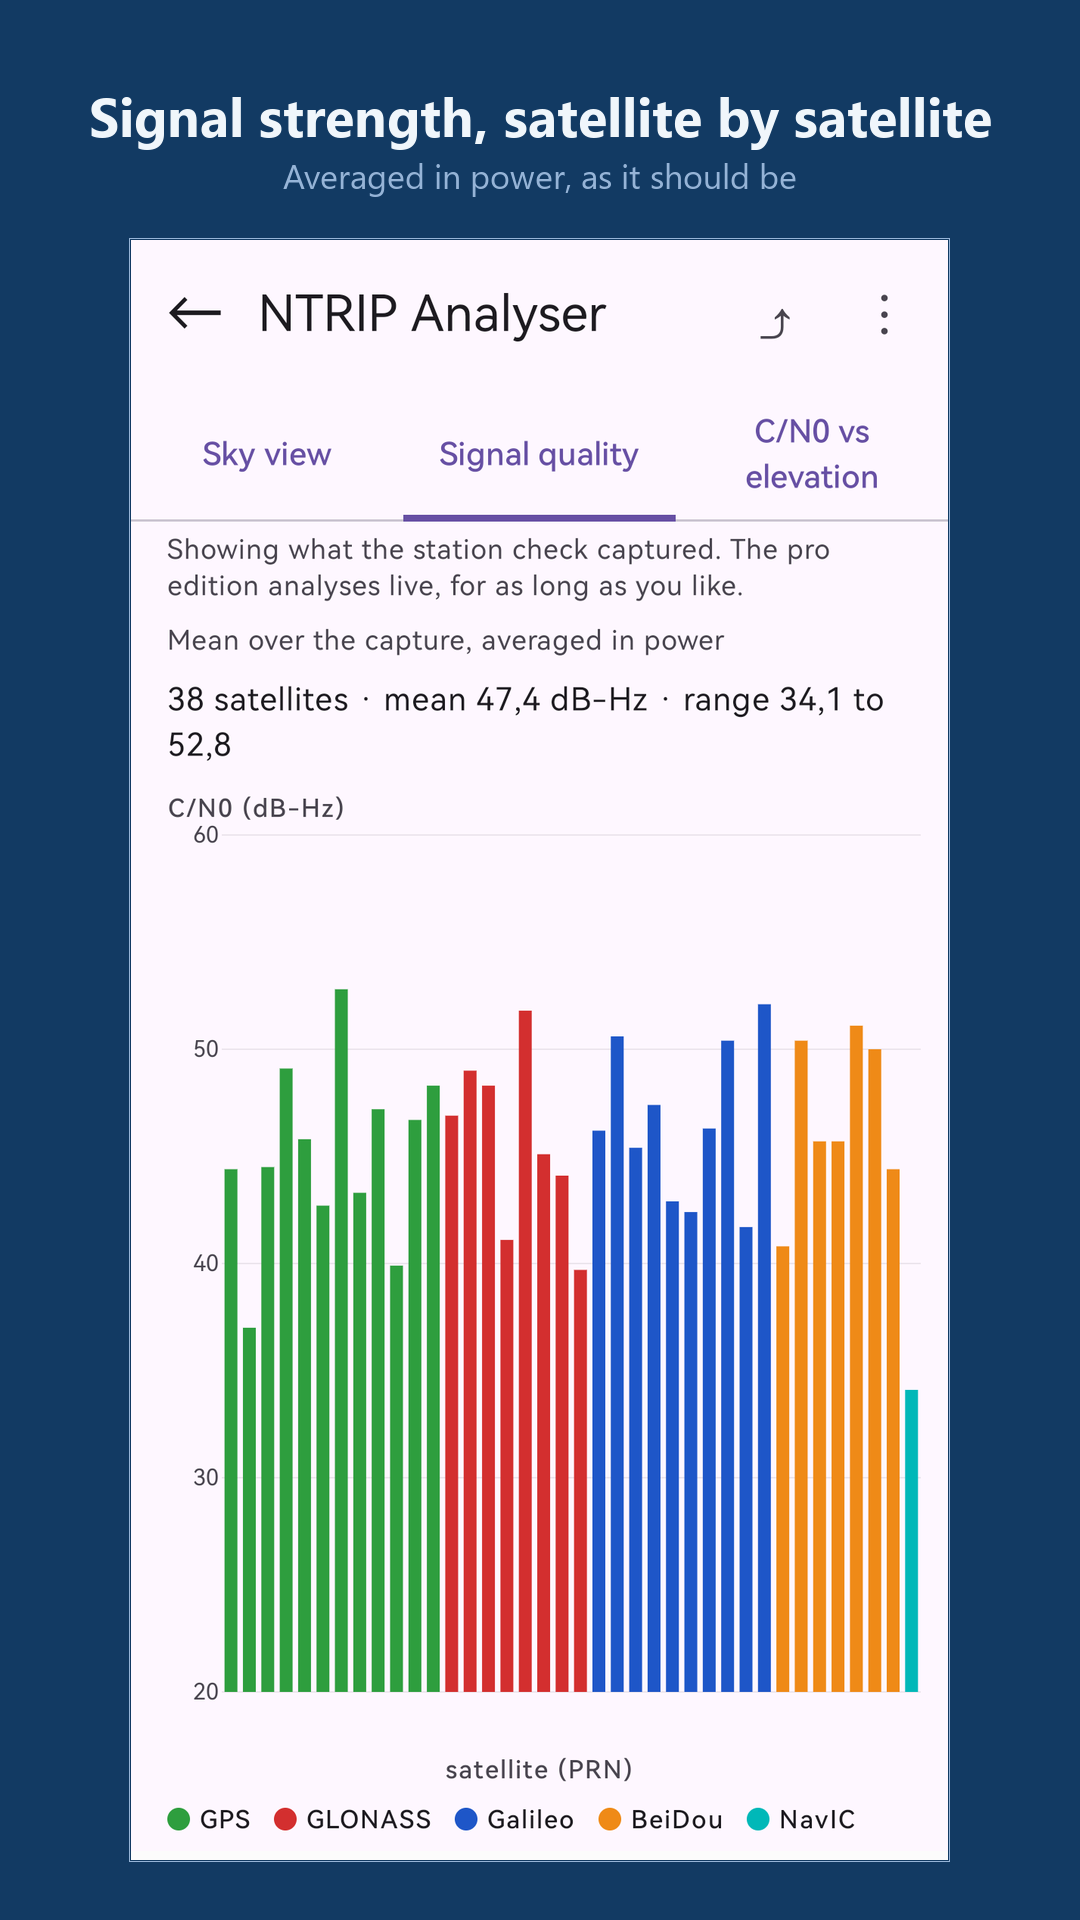
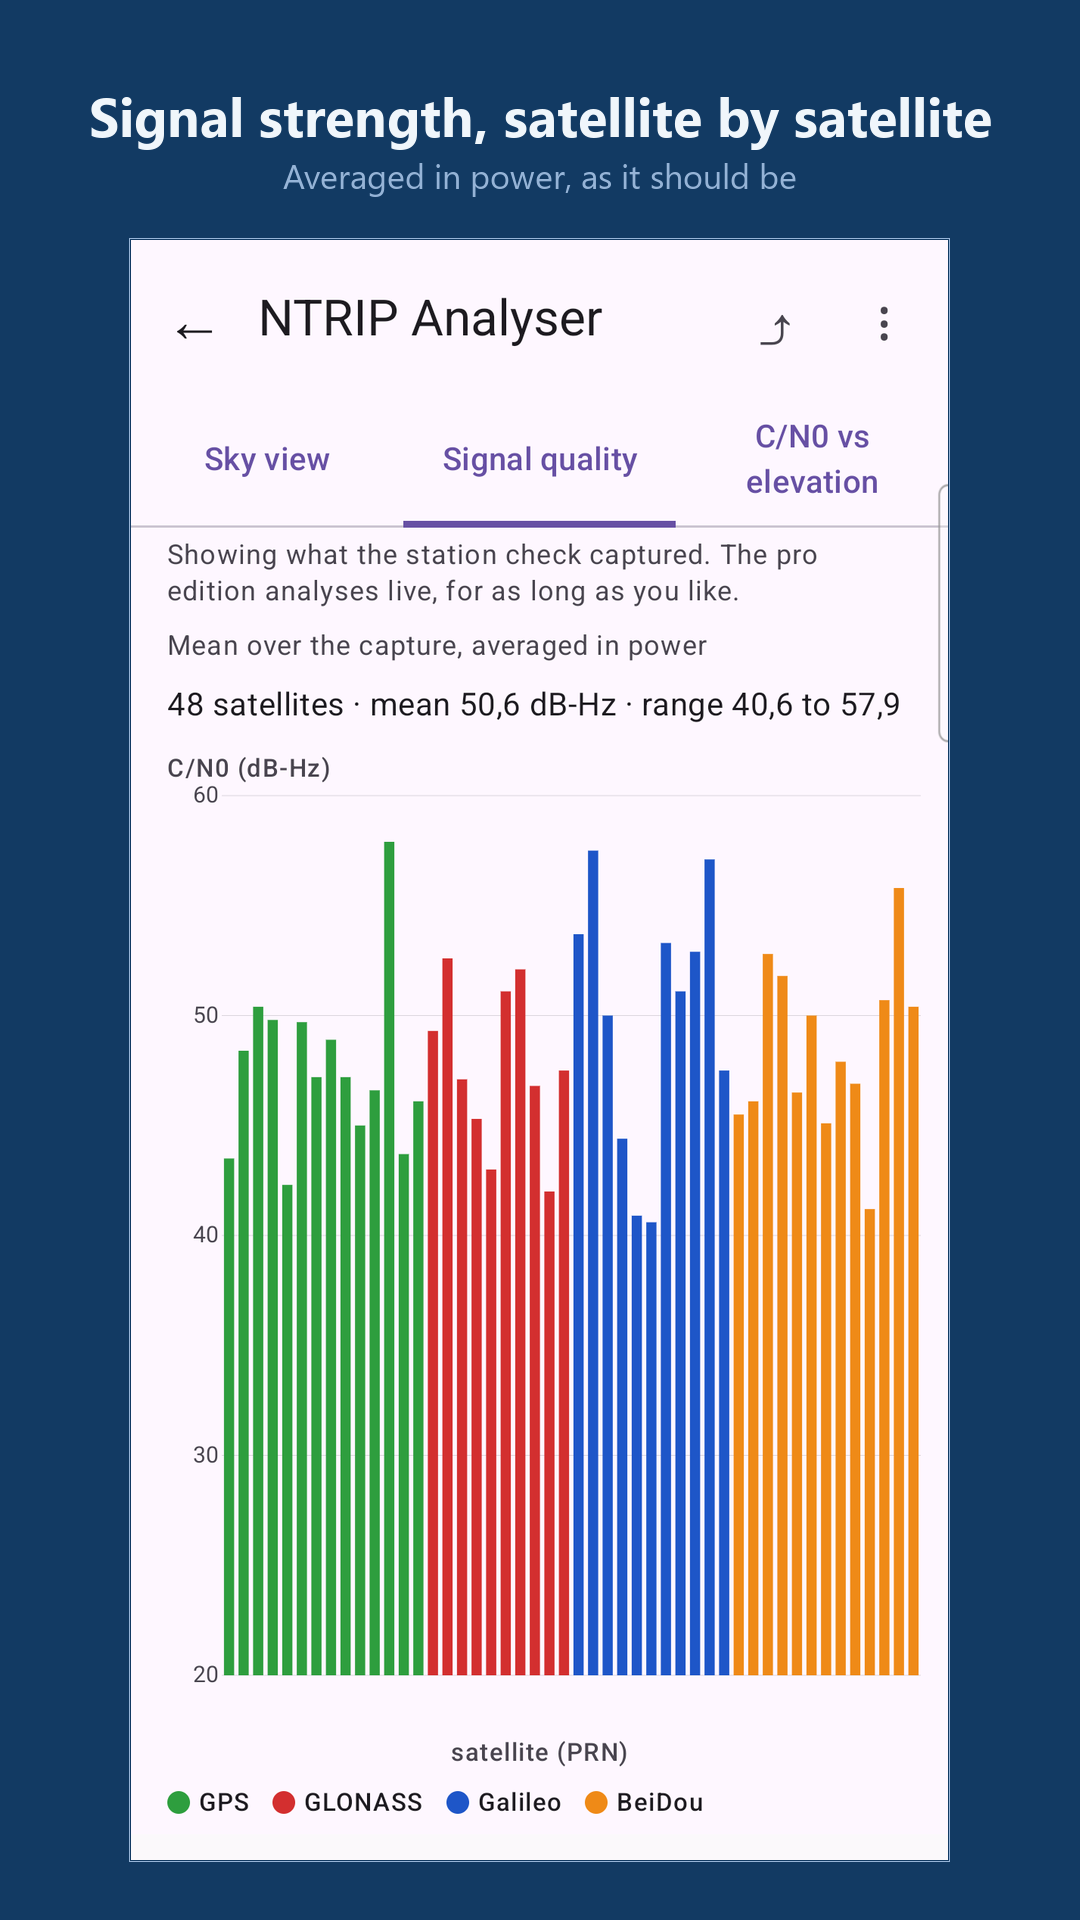
Pro-to-play S2: the store assets, shot on a real run
Pro's captures come from the author's own 50-minute watch on
APEL00NLD0 over TLS -- the run-aware banner, the stability card at
STABLE over 0.7 h with six evidenced verdicts, the hand-over detail,
a 102k-sample elevation heatmap, 37 minutes of satellite tracks, and
live signal bars. Two captions joined the framing tool for the
tier-2 screens. The redaction gate refused a drifted box twice (a
running watch's banner sits taller than a finished check's), and the
author caught the redaction the tool never had: the GGA uplink line
carries the phone's own position, hidden now with the same
shape-preserving treatment as the ARP. Free's four frames are from
an APEL TLS check; its CAUTION main is the author's call at upload.
The stale renumbered pro images are removed -- a directory of mixed
vintages is the state most likely to be uploaded unnoticed.

diff --git a/tools/make_store_shots.py b/tools/make_store_shots.py
@@ -47,9 +47,18 @@ CAPTIONS = {
                "Averaged in power, as it should be"),
     'sourcetable': ("The caster's own sourcetable",
                     "Every mountpoint, its format and its constellations"),
+    # Pro only -- free has no stability card and simply never supplies
+    # the capture.  The card judges on its own evidence and says so;
+    # the caption repeats nothing the screen does not show.
+    'stability': ("Has it been fit all along?",
+                  "Six stability verdicts over the whole run"),
+    # Pro only: the reference-position detail, drawn on the analysis
+    # screens' own template.
+    'handover': ("Where the service really stands",
+                 "Know the moment a network hands you to another station"),
 }
 
-ORDER = ['main', 'elevation', 'sky', 'signal', 'sourcetable']
+ORDER = ['main', 'stability', 'handover', 'elevation', 'sky', 'signal', 'sourcetable']
 
 TILE_BG = (230, 224, 233)      # the connection tile's surface colour
 TILE_INK = (29, 27, 32)        # and its text
@@ -95,12 +104,18 @@ REDACTIONS = {
         'main': [
             # (box, replacement, monospace, size, fill, ink) -- the
             # connection tile's caster line, monospace in the app.
-            # Re-measured for GUI v3 (3.7.0): the tile sits higher now
-            # that the hub's margins scroll with the content, and the
-            # old box painted a documentation host into the gap *above*
-            # the tile while the real one stayed readable below it.
-            ((84, 818, 470, 866), 'ntrip.example.com:2101', True, 44,
+            # Re-measured for 3.8.0's pro capture: a *running watch*
+            # banner carries a subtitle and a progress bar, so the tile
+            # sits lower than after a finished check -- the drift the
+            # gate below exists to catch, and did (twice: the first
+            # "re-measure" was made against the wrong capture).
+            ((84, 845, 640, 888), 'ntrip.example.com:443', True, 44,
              TILE_BG, TILE_INK),
+            # The GGA uplink line carries the phone's own position --
+            # the author's, in these captures -- to five decimals.
+            # Same shape-preserving treatment as the ARP.
+            ((84, 1022, 700, 1060), 'GGA uplink from 52,xxxxx, 5,xxxxx',
+             False, 38, TILE_BG, PAGE_INK),
         ],
         'sky': [
             # Likewise: v3 moved the footer up, clear of the navigation

diff --git a/design/work-items/pro-to-play.md b/design/work-items/pro-to-play.md
@@ -73,7 +73,38 @@ plainly.
 **Verify.** The copy quotes nothing the matrix does not show as ●-pro;
 the check count and edition-parity sentences match `Features.kt`.
 
-### S2 — the assets
+### S2 — the assets  *(done 2026-08-25 — the captures are a real run's)*
+
+Shot on the S23, release 3.8.0, in one evening session — with the
+best possible provenance: the author was already running a **50-minute
+watch on APEL00NLD0 over TLS**, so pro's captures are an actual
+field run, not a staged one. The author drove the screens; the agent
+captured. Pro's set grew beyond the plan: main (the run-aware banner
+reading "watch 50 min · stability: STABLE over 0.8 h"), the
+**stability card** (STABLE over 0.7 h, six green verdicts with their
+evidence), the **hand-over detail** (author's suggestion, mid-session),
+the 102k-sample elevation heatmap, the sky with 37 minutes of tracks,
+and live signal bars — two new captions joined the tool for the
+tier-2 screens. Free's set came from an APEL TLS check plus the
+existing conventions.
+
+The redaction gate earned its keep twice: it refused pro's main
+because a *running watch* banner sits taller than a finished check's
+(the box was re-measured -- the first re-measure was made against the
+wrong capture, which the gate also refused), and the author caught
+that the **GGA uplink line carries the phone's own position** -- it
+now gets the same shape-preserving treatment as the ARP
+("52,xxxxx, 5,xxxxx"). AGRS mountpoint names stay visible: NSGI's
+free streams are public infrastructure with anonymous access, which
+is the terms-allow test the verify line asks.
+
+Open at framing time, author's call at upload: free's `1-main.png`
+shows CAUTION (the station's evening wobble was consistent) -- ship
+it honest, reshoot on RFSEE01 for a STATION OK, or keep the live
+listing's current main. The pro feature graphic is unchanged (not
+version-bearing).
+
+*(As planned:)*
 
 The screenshot reshoot (open question 2), both listings in one
 session; pro's feature graphic from `tools/make_feature_graphic.py`;
